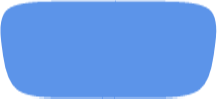
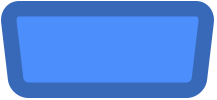
googie button facelift

diff --git a/www/org.html b/www/org.html
@@ -33,7 +33,8 @@
                         filter: drop-shadow(5px 5px 5px #222);
                         background: url(images/googie_button.png) no-repeat 0% 0% / 100% 100%;
                         margin: 0px 5px 5px 0px;
-                        color: #bacbe5;
+                        color: #e4efff;
+                        padding: 10px 35px;
                 }
                 .googie .code-buttons button:hover {
                         -webkit-filter: drop-shadow(1px 1px 1px #222);
@@ -113,12 +114,14 @@
                         margin: 5px;
                 }
                 .googie #prevSlide {
-                        left: 140px;
+                        left: 100px;
                         top: 120px;
+                        padding: 20px 35px;
                 }
                 .googie #nextSlide {
-                        right: 140px;
+                        right: 100px;
                         top: 120px;
+                        padding: 20px 35px;
                 }
                 .googie.bar_collapse #nextSlide, .googie.bar_collapse #prevSlide {
                         top: 75px;
